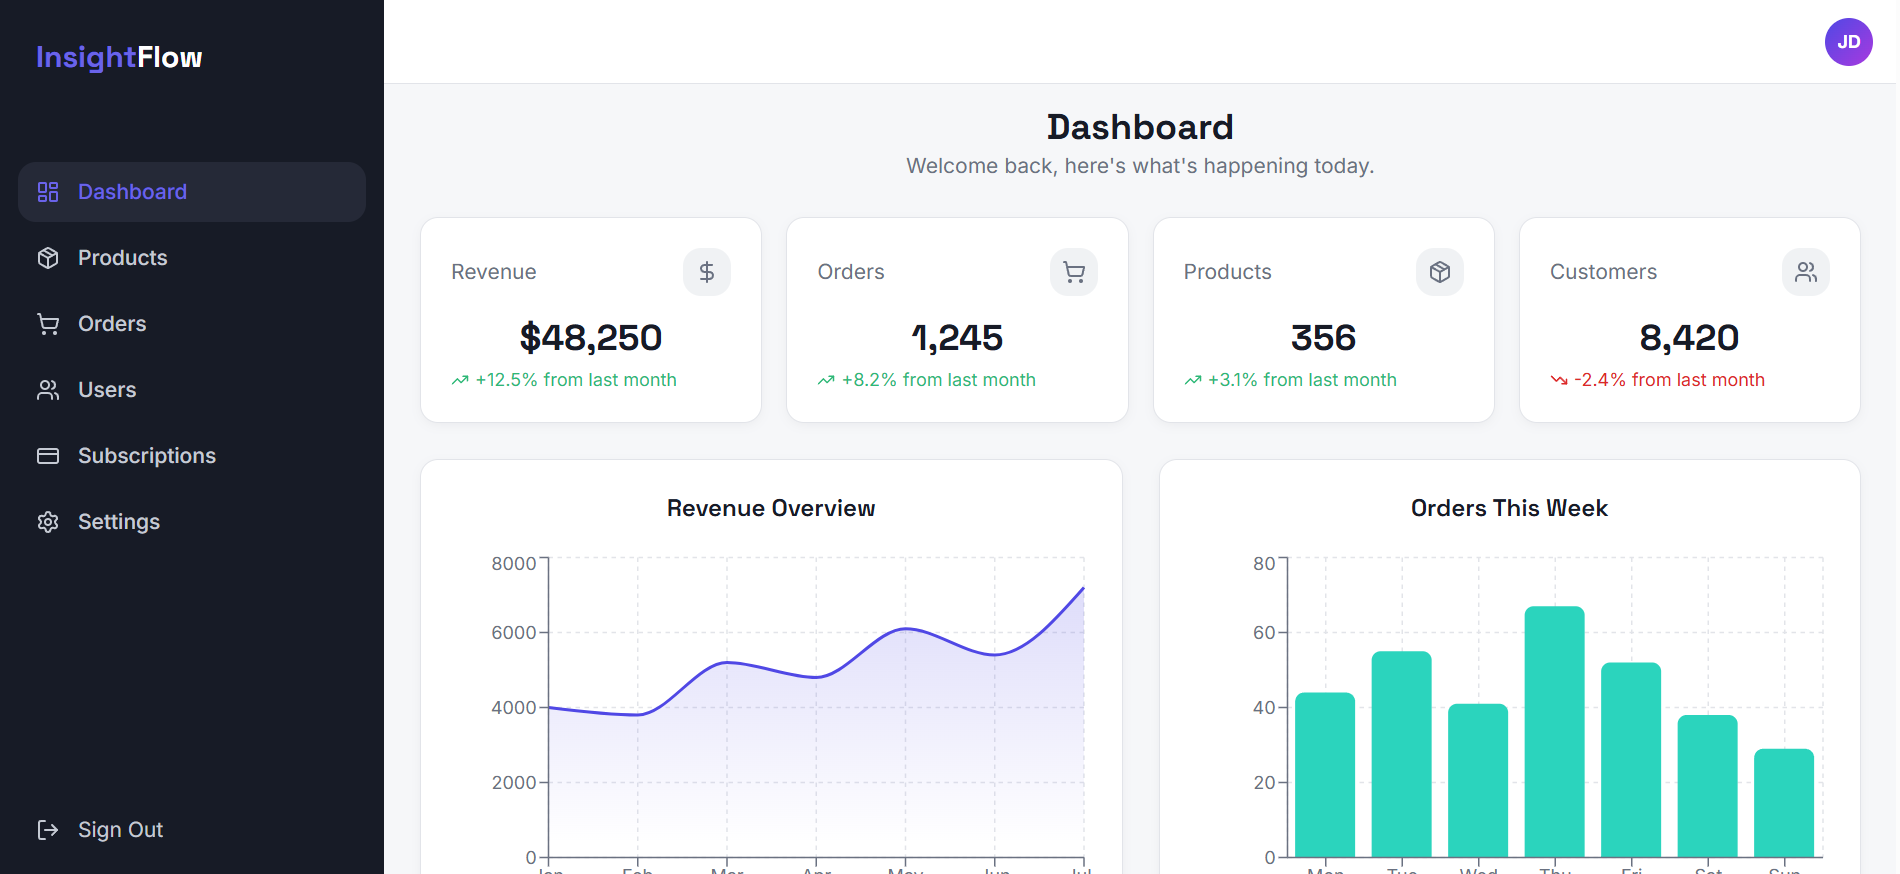
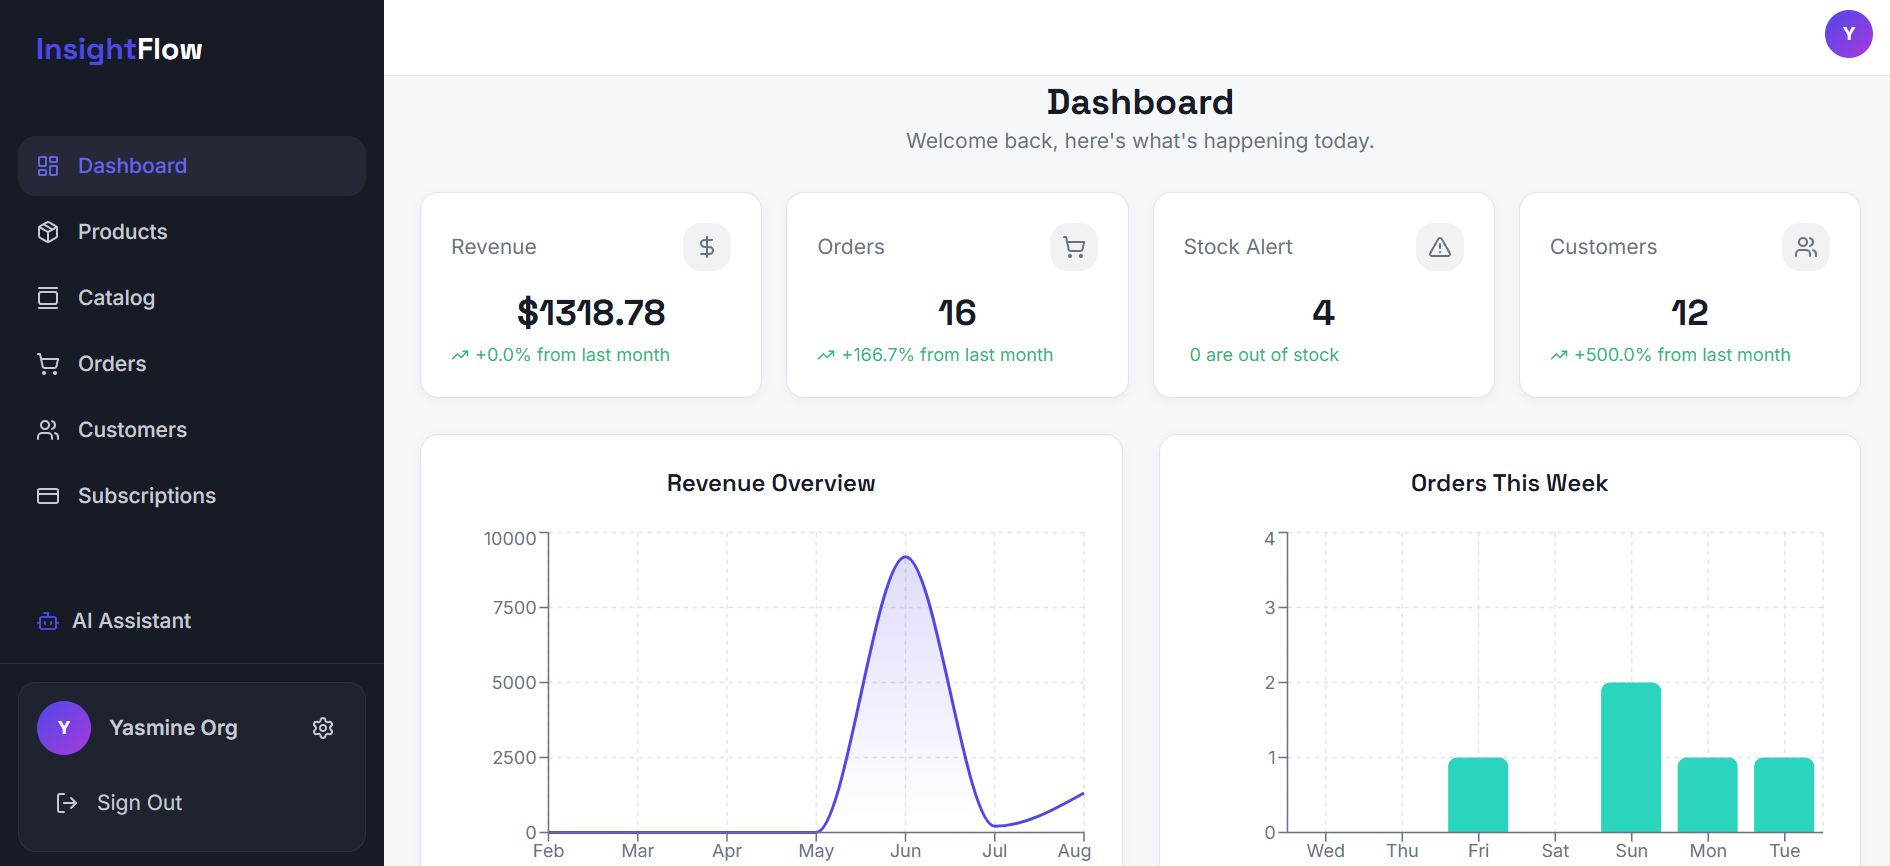
updated skills and added new project

diff --git a/components/projects-section.tsx b/components/projects-section.tsx
@@ -7,22 +7,28 @@ import { Button } from "@/components/ui/button"
 import Image from "next/image";
 
 const projects = [
-   {
+  {
+    title: "InsightFlow",
+    description:"InsightFlow is a multi-tenant Business Intelligence SaaS that enables organizations to import operational data and transform it into actionable analytics, dashboards, and business insights.",
+    image: "/images/InsightFlow.png",
+    tags: ["React", "NodeJs", "Express", "MongoDB","RestAPI","JWT","OAuth","Stripe"],
+    github: "https://github.com/yasmine2512/InsightFlow",
+    live:"https://insightflow-64la.onrender.com/",
+    featured: true,
+  },{
+    title: "AI Agent",
+    description:"AI-powered business assistant built with LangGraph and LangChain, featuring tool calling, conversational memory, business-data analysis, and RAG-based document question answering.",
+    image: "/images/AIAgent.jpg",
+    tags: ["Python", "RAG", "LangGraph", "LangChain","MongoDB","MongoDB Vector Search","Google Gemini API","Fast API"],
+    github: "https://github.com/yasmine2512/LangGraph-Ai-Agent",
+    featured: true,
+  },{
     title: "FleetCompass",
     description:"A real-time logistics and fleet telemetry platform designed for live asset tracking, operational monitoring, and data-driven performance analytics. Built with a modern full-stack architecture using React, NestJS, Supabase, and containerized for scalability via Docker.",
     image: "/images/FleetCompass.png",
     tags: ["React", "NestJs", "PostgreSQL/PostGIS", "Supabase","Redis","BullMQ","WebSocket","Docker"],
     github: "https://github.com/yasmine2512/FleetCompass",
     live: "https://fleetcompassapp.onrender.com/",
-    featured: true,
-  },
-  {
-    title: "InsightFlow",
-    description:"InsightFlow is a multi-tenant Business Intelligence SaaS that enables organizations to import operational data and transform it into actionable analytics, dashboards, and business insights.",
-    image: "/images/insightflow.png",
-    tags: ["React", "NodeJs", "Express", "MongoDB","RestAPI","JWT","OAuth","Stripe"],
-    github: "https://github.com/yasmine2512/InsightFlow",
-    live:"https://insightflow-64la.onrender.com/",
     featured: true,
   },{
     title: "ThesisHub",

diff --git a/components/skills-section.tsx b/components/skills-section.tsx
@@ -15,15 +15,21 @@ const skillCategories = [
   },
   {
     title: "Backend",
-    skills: ["Node.js", "Python", "Express.js",".NET","Nest.js", "RestAPI", "PostgreSQL", "MongoDB","MySQL","Redis","JWT","OAuth","Stripe","bullMQ"],
+    skills: ["Node.js", "Express.js", "Nest.js", ".NET Core","RESTful API","WebSocket/Socket.IO","JWT","OAuth","Stripe","bullMQ"],
+  },{
+    title: "Databases",
+    skills: [ "PostgreSQL", "MongoDB","MySQL","Redis", "Neon", "Upstash"],
   },
   {
     title: "AI & ML",
-    skills: ["Python","Neural Networks","NumPy", "Deep Learning","Pandas","Machine Learning"],
+    skills: ["Python","Machine Learning", "Deep Learning", "RAG", "Neural Networks","NumPy","Pandas", "LLMs", "LangChain", "LangGraph"],
+  },{
+    title: "Testing",
+    skills: ["Jest", "Supertest", "Playwright","Unit Testing"," Integration Testing", "API Testing"],
   },
   {
-    title: "Tools & Others",
-    skills: ["Git","Github","npm", "Docker","Nginx","Linux", "VS Code", "Vercel"],
+    title: "DevOps & Tools",
+    skills: ["Git","Github","GitHub Actions", "Docker", "Nginx"," Linux", "npm"," Vercel"," Render"],
   },
 ]
 
